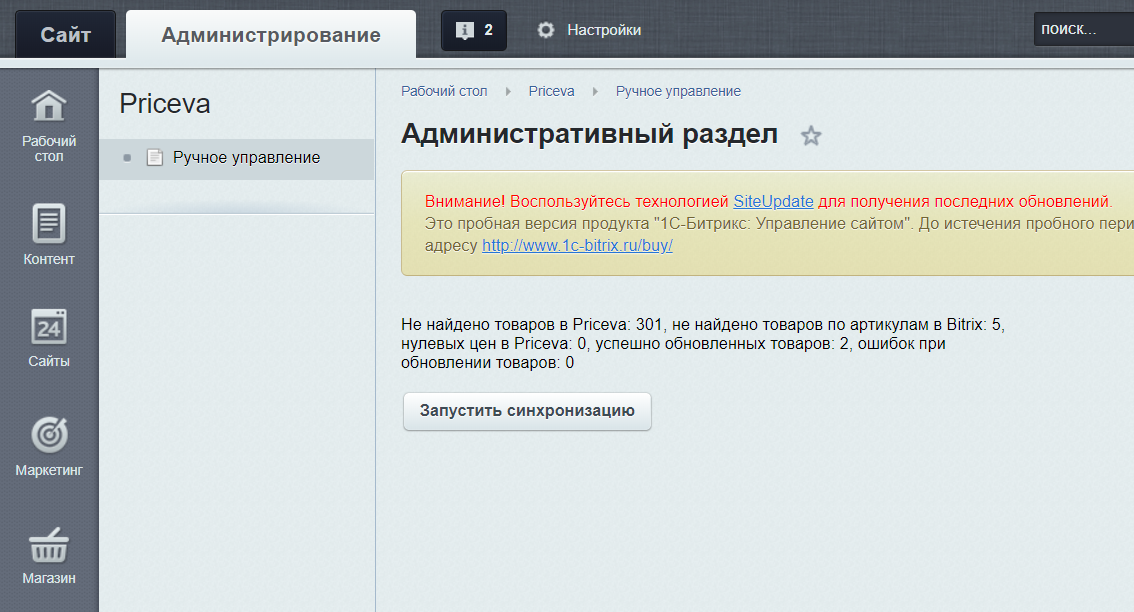
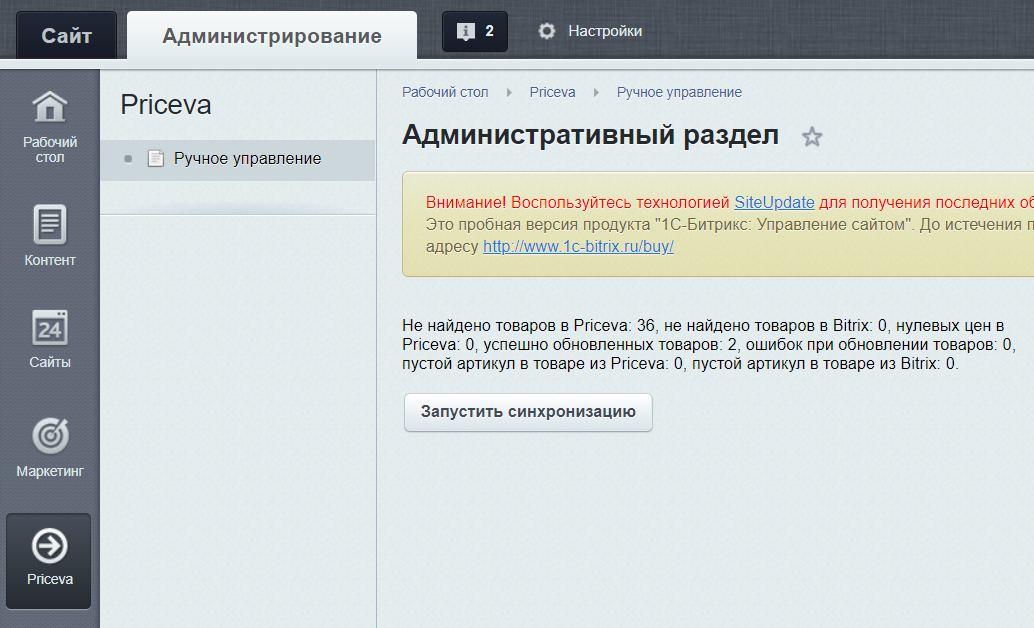
Menu "Priceva" has moved closer to Marketing

Changed region(s): [[0.0, 0.0, 1.0, 1.0], [0.3404, 0.4967, 0.9903, 0.7141]]

diff --git a/install/index.php b/install/index.php
@@ -273,7 +273,7 @@ Class priceva_connector extends CModule
                 "index_icon"   => "services_page_icon",
                 "text"         => "Priceva",
                 "title"        => "Priceva",
-                "sort"         => 400,
+                "sort"         => 150,
                 "items_id"     => "global_menu_priceva",
                 "help_section" => "custom",
                 "items"        => [],
